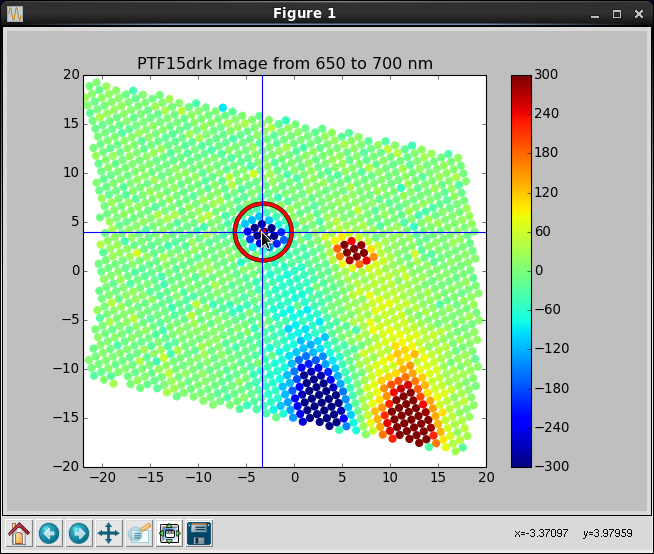
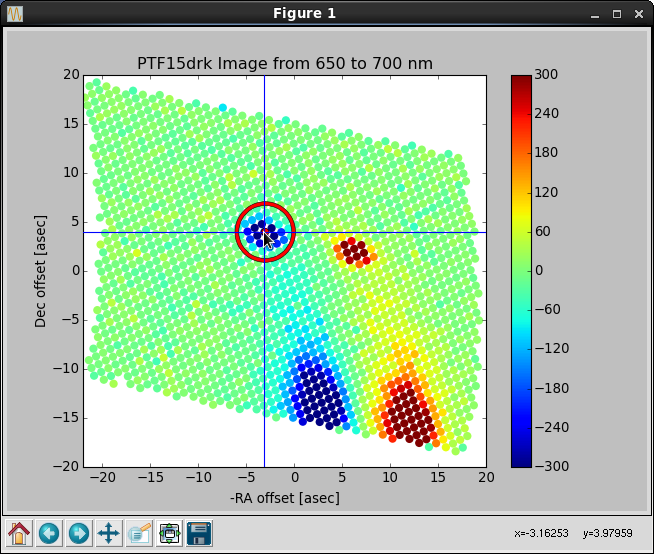
Label update for aper GUI, desktop image, misc. updates

diff --git a/source/Quick.rst b/source/Quick.rst
@@ -23,7 +23,15 @@ Before the observer interacts with the pipeline, the following steps are automat
 Step-by-step procedure
 ----------------------
 
-The observer connects with pharos either through VNC (recommended), or via an X enabled ssh connection (slower).  Then the observer-pipeline interaction proceeds with the following steps:
+The observer connects with pharos either through VNC (recommended), or via an X enabled ssh connection (slower).  Below is is a figure showing the layout of the desktop connected through the VNC connection.
+
+.. figure:: PharosSEDMdesktop.png
+
+    Figure 1. Pharos sedmdrp desktop on screen 7 (5907).
+
+The automatic pipeline script is running in the bottom right window.  Some status information can be gleaned from the output there.  The xterm set on the left may be used by the observer to examine the files on pharos.  A web browser will be set up on the desktop screen to the right which can be selected using the chooser on the lower right.  This is where you can interact with the marshal.
+
+In the top-right Xterm window, the observer interacts with the pipeline using the following steps:
 
 1. cd into current (UT) date directory:
     * ``cd /scr2/sedmdrp/redux/20151115`` (e.g.)
@@ -48,7 +56,7 @@ __ http://ptf.caltech.edu/cgi-bin/ptf/transient/view_source.cgi?name=15drk
 
 .. figure:: PTF15drk_AperA.png
 
-    Figure 1. A/B Aperture placement: Aper A goes on positive (red) target.
+    Figure 2. A/B Aperture placement: Aper A goes on positive (red) target.
 
 5. Place aperture on B target:
     * If A/B pair, find B object (negative: blue)
@@ -58,7 +66,7 @@ __ http://ptf.caltech.edu/cgi-bin/ptf/transient/view_source.cgi?name=15drk
 
 .. figure:: PTF15drk_AperB.png
 
-    Figure 2. A/B Aperture placement: Aper B goes on negative (blue) target.
+    Figure 3. A/B Aperture placement: Aper B goes on negative (blue) target.
 
 6. Generate ascii spectrum and confirm extraction:
     * ``chspec sp_PTF15drk.npy`` (e.g.)
@@ -66,7 +74,7 @@ __ http://ptf.caltech.edu/cgi-bin/ptf/transient/view_source.cgi?name=15drk
 
 .. figure:: PTF15drk_SEDM.png
 
-    Extracted spectrum plot of PTF15drk. Close this window to generate PTF15drk_SEDM.txt.
+    Figure 4. Extracted spectrum plot of PTF15drk. Close this window to generate PTF15drk_SEDM.txt.
 
 7. Run classifier:
     * ``snid PTF15drk_SEDM.txt`` (e.g.)
@@ -75,7 +83,7 @@ __ http://ptf.caltech.edu/cgi-bin/ptf/transient/view_source.cgi?name=15drk
 
 .. figure:: PTF15drk_SEDM_SNIa.png
 
-    SNID template fit for spectrum in ``PTF15drk_SEDM.txt``.
+    Figure 5. SNID template fit for spectrum in ``PTF15drk_SEDM.txt``.
 
 8. Record and upload results (type, age, redshift, template plots) to `marshal`__.
 

diff --git a/source/Components.rst b/source/Components.rst
@@ -3,9 +3,6 @@
 Components
 ==========
 
-Inventory
----------
-
 Spec sheets, documentation, photos
 ----------------------------------
 
